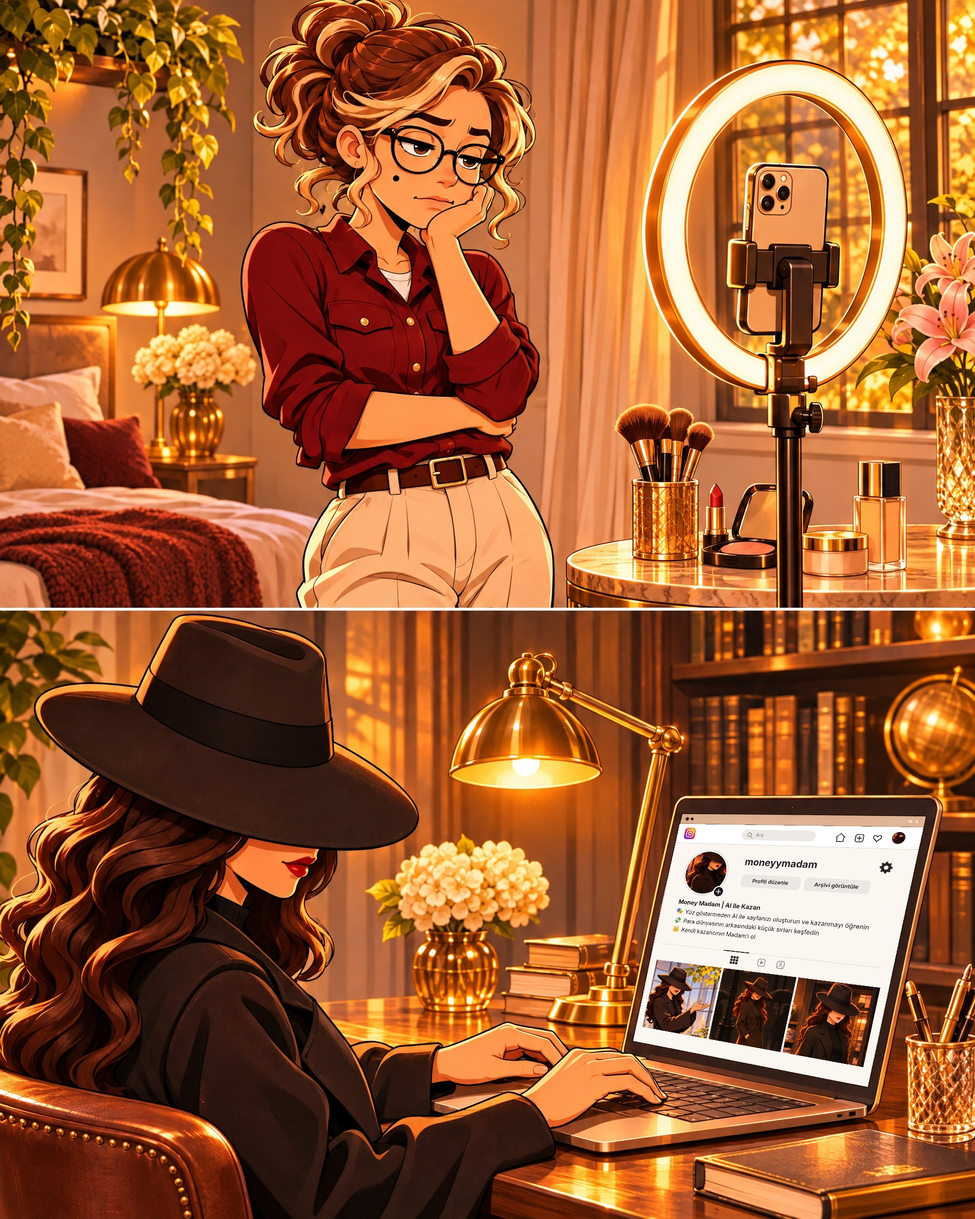
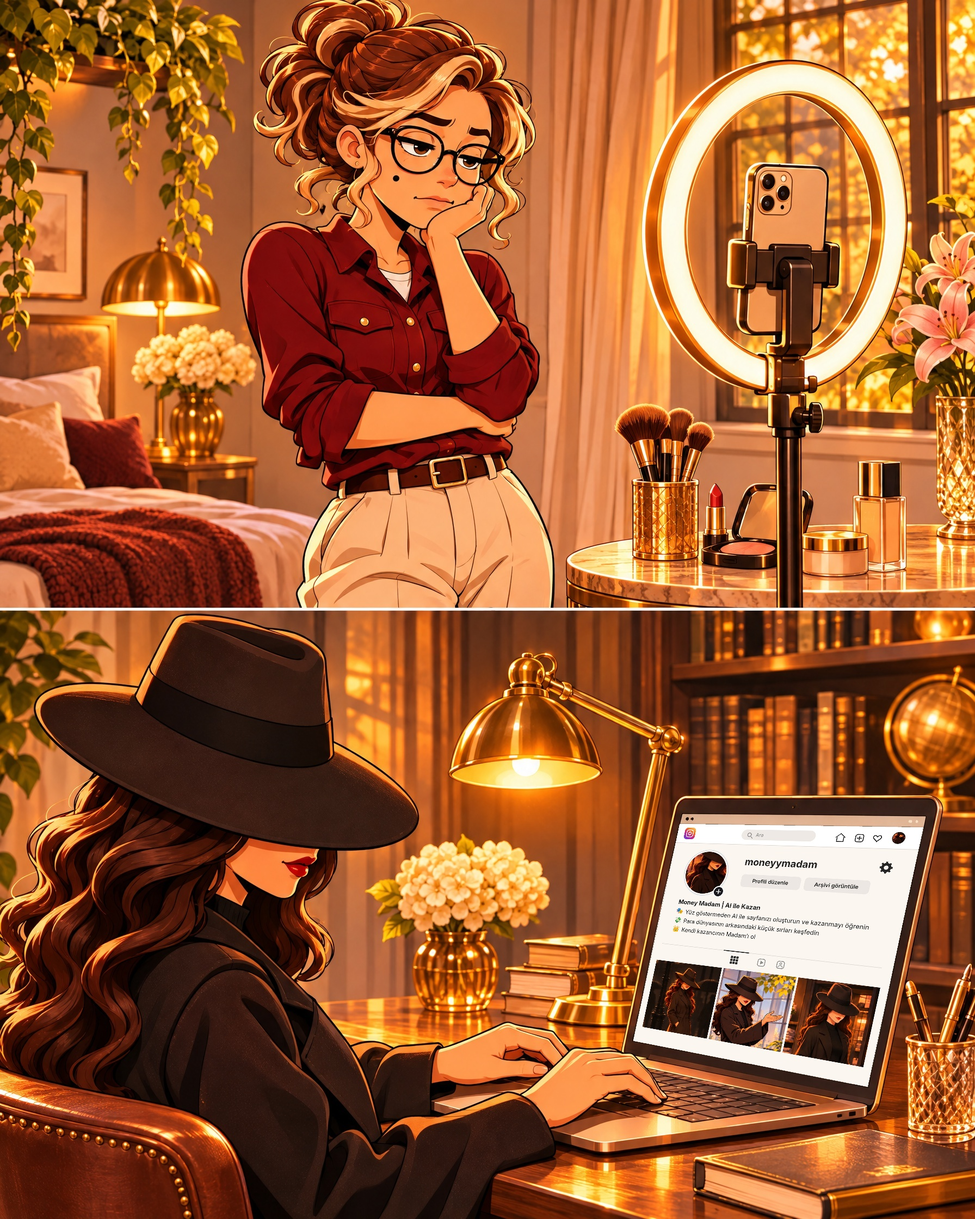
Post6 sayfa 1: laptop ekranındaki gönderi sırası değiştirildi
Claude-Session: https://claude.ai/code/session_01DJnELUg2datGduMzoawH2g

Changed region(s): [[0.6562, 0.7812, 0.8125, 0.875]]

diff --git a/dark-money/tools/post6_laptop_instagram_ekrani.py b/dark-money/tools/post6_laptop_instagram_ekrani.py
@@ -11,8 +11,9 @@ OUT=R+"post6/yazisiz/sayfa1.jpg"
 FD="/usr/share/fonts/opentype/inter/Inter-"; EMOJI="/usr/share/fonts/truetype/noto/NotoColorEmoji.ttf"
 # ekranın beyaz alanının köşeleri (sol-üst, sağ-üst, sağ-alt, sol-alt)
 SCREEN=[(1250,1515),(1696,1521),(1594,1996),(1165,1912)]
-SRC=[(R+"post4/yazisiz/sayfa4.jpg",(851,1131,1523,1803)),
-     (R+"post3/yazisiz/sayfa1.jpg",(1322,168,1792,638)),
+# ızgara sırası (soldan sağa): yağmurlu sokak, ofis, butik
+SRC=[(R+"post3/yazisiz/sayfa1.jpg",(1322,168,1792,638)),
+     (R+"post4/yazisiz/sayfa4.jpg",(851,1131,1523,1803)),
      (R+"post1/yazisiz/sayfa1.jpg",(1121,607,1744,1230))]
 NAME="Money Madam | AI ile Kazan"; USER="moneyymadam"
 BIO=[("🎭","Yüz göstermeden AI ile sayfanızı oluşturun ve kazanmayı öğrenin"),
